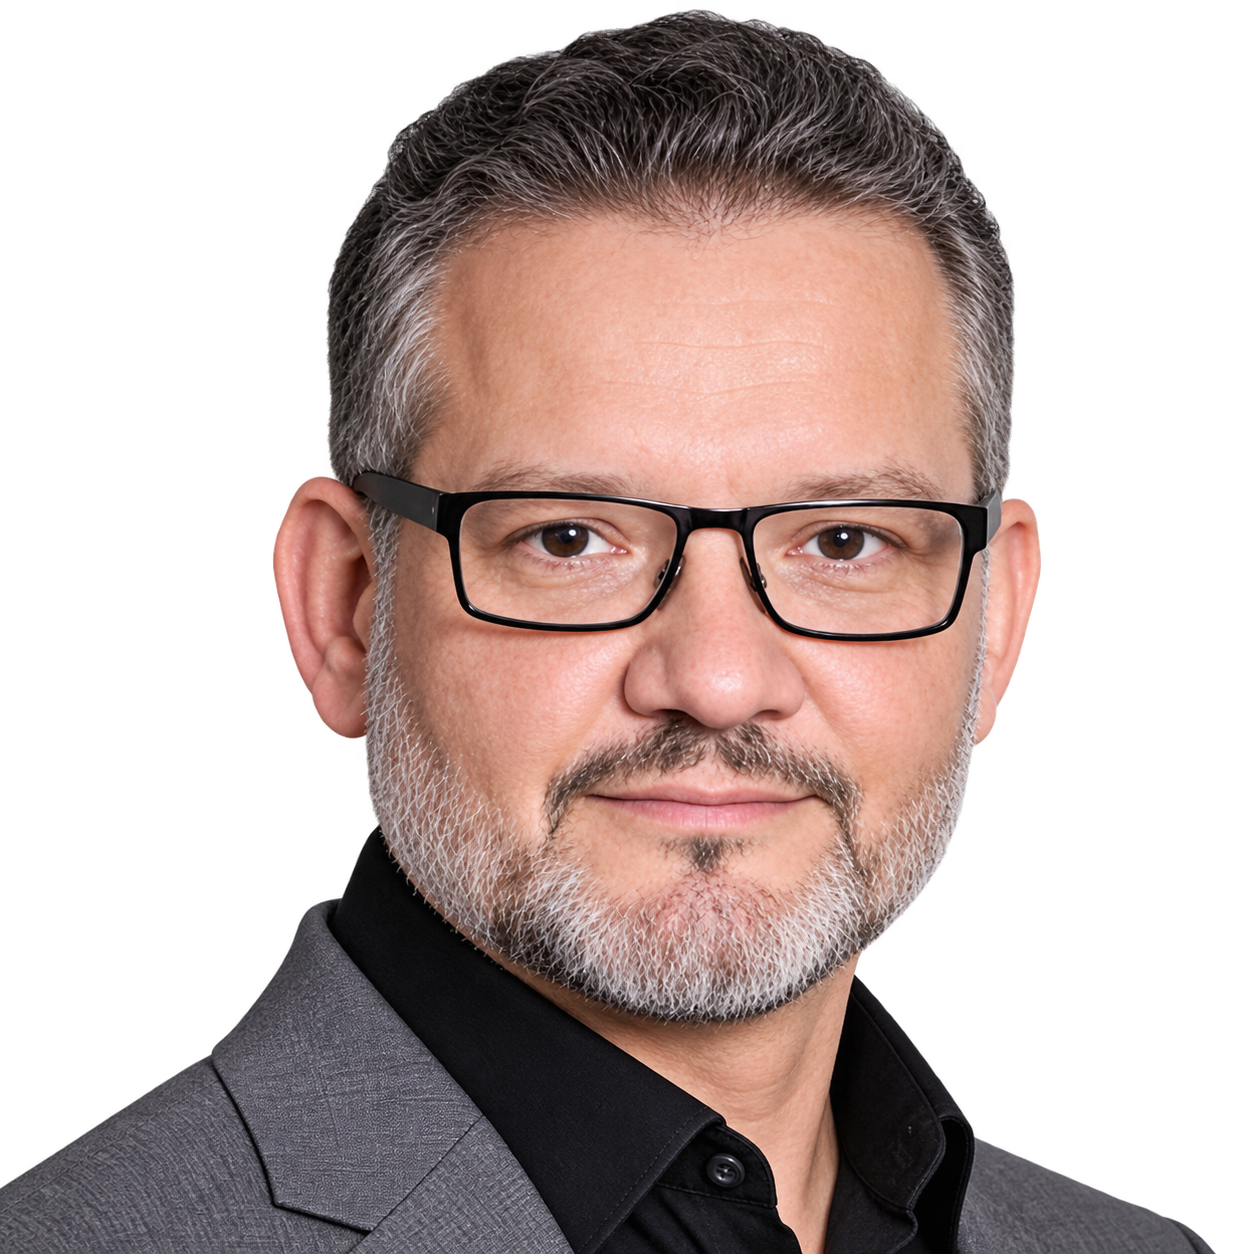
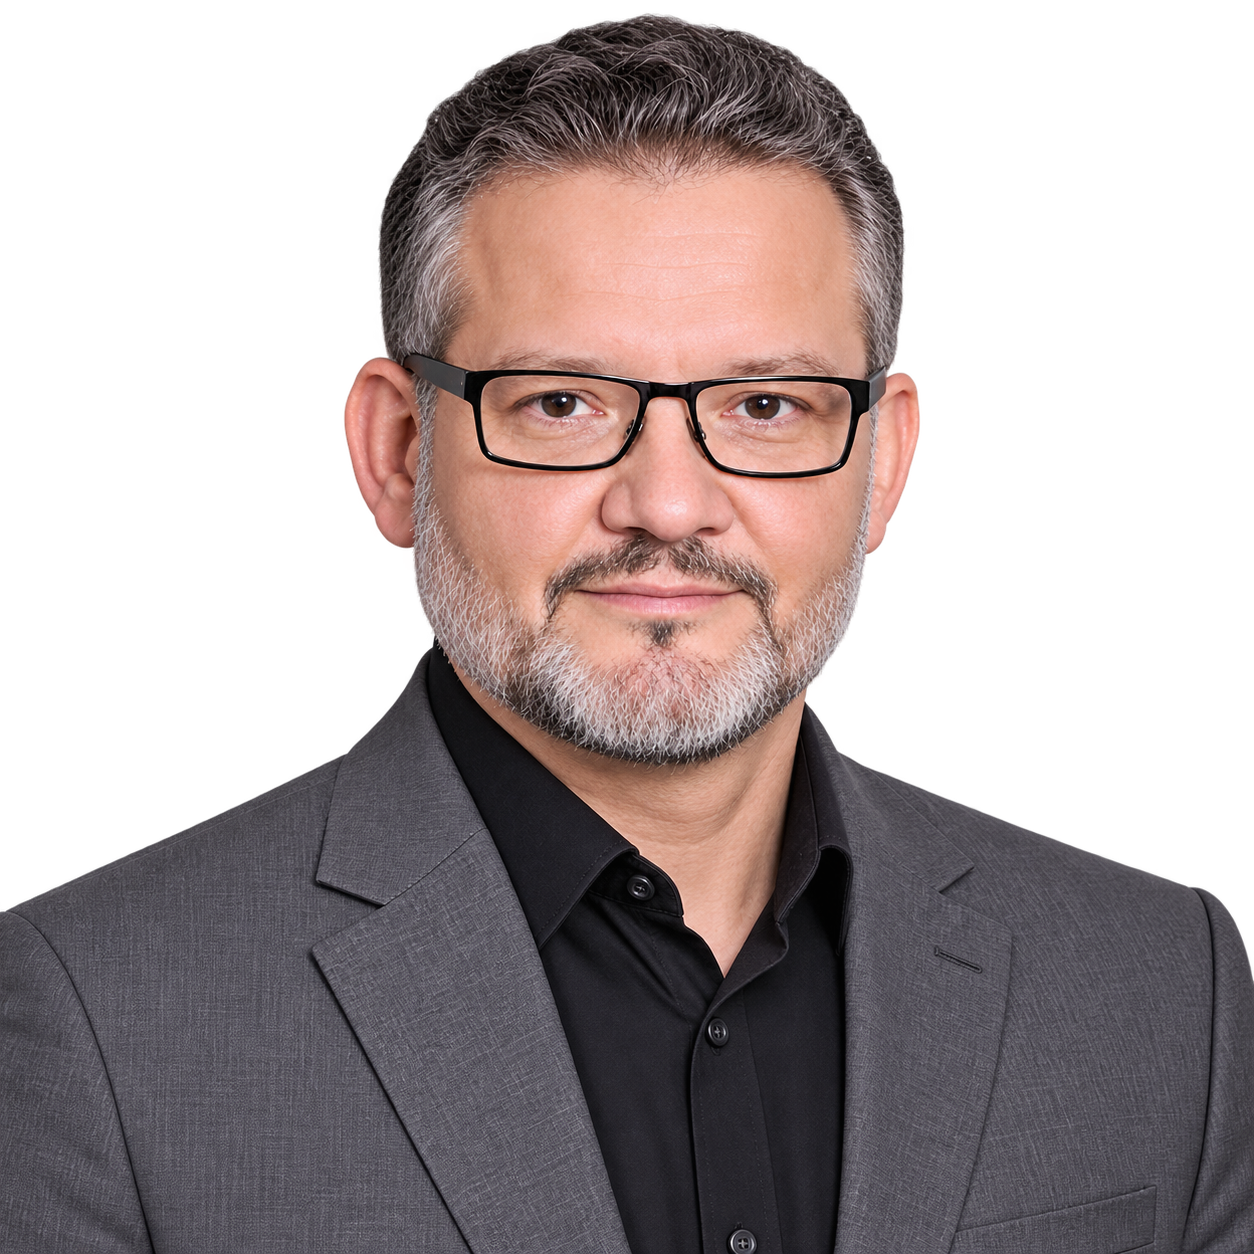
Fix mobile responsiveness issues and update team photos

diff --git a/src/refinements.css b/src/refinements.css
@@ -1581,3 +1581,130 @@ span.brand__name--technologies,
 }
 
 
+
+/* =========================================================
+   COMPREHENSIVE MOBILE RESPONSIVE FIXES FOR ALL HEROES
+   ========================================================= */
+@media (max-width: 1024px) {
+  /* Make all hero containers stack vertically */
+  .picture-hero__container,
+  .impl-hero__container,
+  .managed-hero__container,
+  .about-hero__container {
+    flex-direction: column !important;
+    padding: 0 5% !important;
+  }
+  
+  /* Reset widths for left and right columns to take full width */
+  .picture-hero__left,
+  .picture-hero__right,
+  .impl-hero__left,
+  .impl-hero__right,
+  .impl-hero__spacer,
+  .managed-hero__left,
+  .managed-hero__right,
+  .about-hero__left,
+  .about-hero__spacer {
+    flex: 0 0 100% !important;
+    max-width: 100% !important;
+    width: 100% !important;
+    padding-left: 0 !important;
+    padding-right: 0 !important;
+    margin-left: 0 !important;
+    margin-right: 0 !important;
+  }
+  
+  /* Reset backgrounds and overlaps for mobile layout */
+  .about-hero__left {
+    background: rgba(13, 30, 61, 0.85) !important;
+    padding: 30px 6% !important;
+    margin-top: 40px !important;
+  }
+  
+  .impl-hero__left {
+    padding: 30px 6% !important;
+    margin-top: 40px !important;
+    background: rgba(13, 30, 61, 0.85) !important;
+    border-radius: 16px !important;
+  }
+
+  /* Fix specific heights for images so they aren't cut off */
+  .picture-hero__right,
+  .managed-hero__right {
+    height: auto !important;
+    min-height: 250px !important;
+    margin-top: 40px !important;
+    padding: 0 !important;
+  }
+  
+  .picture-hero__img-mask,
+  .managed-hero__img-container {
+    height: auto !important;
+    width: 100% !important;
+    clip-path: none !important;
+  }
+  
+  .picture-hero__img,
+  .managed-hero__img {
+    height: auto !important;
+    width: 100% !important;
+    object-fit: cover !important;
+    border-radius: 16px !important;
+  }
+
+  .managed-hero__img-overlay {
+    border-radius: 16px !important;
+  }
+  
+  /* Managed Services Specific Overlays */
+  .managed-hero__overlay-list {
+    position: relative !important;
+    top: 0 !important;
+    left: 0 !important;
+    right: 0 !important;
+    bottom: 0 !important;
+    max-width: 100% !important;
+    width: 100% !important;
+    background: rgba(13, 30, 61, 0.95) !important;
+    border-radius: 16px !important;
+    padding: 24px !important;
+    margin-top: 16px !important;
+    box-sizing: border-box !important;
+  }
+}
+
+/* =========================================================
+   MOBILE FIXES FOR IMPLEMENTATION APPROACH CARD
+   ========================================================= */
+@media (max-width: 768px) {
+  .impl-card__header {
+    font-size: 0.85rem !important;
+    padding: 16px 12px !important;
+    letter-spacing: 0.05em !important;
+  }
+  
+  .impl-card__body {
+    padding: 24px 16px !important;
+  }
+  
+  .impl-flow__step {
+    gap: 16px !important;
+    align-items: flex-start !important;
+  }
+  
+  .impl-flow__icon-wrap {
+    width: 40px !important;
+    height: 40px !important;
+    margin-top: 4px !important;
+  }
+  
+  .impl-flow__details {
+    flex: 1 !important;
+    min-width: 0 !important;
+  }
+  
+  .impl-flow__desc {
+    max-width: 100% !important;
+    font-size: 0.82rem !important;
+  }
+}

diff --git a/src/components/Footer.jsx b/src/components/Footer.jsx
@@ -1,11 +1,14 @@
 import { useState } from 'react';
-import { Link } from 'react-router-dom';
+import { Link, useNavigate, useLocation } from 'react-router-dom';
 import goonerLogo from '../assets/logo.png';
 
 export default function Footer() {
   const [newsEmail, setNewsEmail] = useState('');
   const [subscribed, setSubscribed] = useState(false);
   const [isSubscribing, setIsSubscribing] = useState(false);
+  
+  const navigate = useNavigate();
+  const location = useLocation();
 
   const handleSubscribe = (e) => {
     e.preventDefault();
@@ -20,12 +23,30 @@ export default function Footer() {
   };
 
   const handleScrollTo = (e, href) => {
-    if (href.startsWith('#')) {
-      const target = document.querySelector(href);
-      if (target) {
-        e.preventDefault();
-        target.scrollIntoView({ behavior: 'smooth', block: 'start' });
+    e.preventDefault();
+    if (href.includes('#')) {
+      const [path, hash] = href.split('#');
+      const targetId = `#${hash}`;
+
+      const scrollToTarget = () => {
+        const target = document.querySelector(targetId);
+        if (target) {
+          target.scrollIntoView({ behavior: 'smooth', block: 'start' });
+        }
+      };
+
+      const resolvedPath = path || '/';
+      const isSamePath = location.pathname === resolvedPath || 
+        (resolvedPath === '/' && location.pathname === '');
+
+      if (!isSamePath) {
+        navigate(resolvedPath);
+        setTimeout(scrollToTarget, 150);
+      } else {
+        scrollToTarget();
       }
+    } else {
+      window.scrollTo({ top: 0, behavior: 'smooth' });
     }
   };
 
@@ -37,7 +58,7 @@ export default function Footer() {
         <div className="footer__main-grid">
           {/* Col 1: Brand */}
           <div className="footer__brand-col">
-            <a href="#" className="brand footer-brand" onClick={(e) => handleScrollTo(e, '#hero')}>
+            <a href="/#hero" className="brand footer-brand" onClick={(e) => handleScrollTo(e, '/#hero')}>
               <img src={goonerLogo} alt="Gooner Technologies" className="brand__logo-img" />
               <span className="brand__divider" aria-hidden="true" />
               <span className="brand__name">
@@ -54,9 +75,9 @@ export default function Footer() {
           <div className="footer__nav-col">
             <h4 className="footer__nav-title">Quick Links</h4>
             <ul className="footer__nav-list">
-              <li><a href="#why-us" onClick={(e) => handleScrollTo(e, '#why-us')}>Why Choose Us</a></li>
-              <li><a href="#proven-impact" onClick={(e) => handleScrollTo(e, '#proven-impact')}>Business Impact</a></li>
-              <li><a href="#case-studies" onClick={(e) => handleScrollTo(e, '#case-studies')}>Client Case Studies</a></li>
+              <li><a href="/#why-us" onClick={(e) => handleScrollTo(e, '/#why-us')}>Why Choose Us</a></li>
+              <li><a href="/#proven-impact" onClick={(e) => handleScrollTo(e, '/#proven-impact')}>Business Impact</a></li>
+              <li><a href="/#case-studies" onClick={(e) => handleScrollTo(e, '/#case-studies')}>Client Case Studies</a></li>
               <li><Link to="/about-us">About Us</Link></li>
               <li><Link to="/faqs">FAQs</Link></li>
             </ul>

diff --git a/src/data/aboutData.js b/src/data/aboutData.js
@@ -14,8 +14,7 @@ export const TEAM_MEMBERS = [
   {
     name: 'Andy Pieroux',
     role: 'Mentor',
-    image: '/assets/Our%20people/Andy_Pieroux.png',
-    imageStyle: { padding: '20px 20px 0 20px' }
+    image: '/assets/Our%20people/Andy_Pieroux.png'
   },
   {
     name: 'Vinay Parekh',
@@ -39,8 +38,7 @@ export const TEAM_MEMBERS = [
     name: 'Harshit Singh',
     role: 'Consultant',
     image: '/assets/Our%20people/Harshit_Singh.png',
-    linkedin: 'https://www.linkedin.com/in/hrshit1309/',
-    imageStyle: { padding: '20px 20px 0 20px', top: '25px' }
+    linkedin: 'https://www.linkedin.com/in/hrshit1309/'
   }
 ];
 

diff --git a/dist/index.html b/dist/index.html
@@ -12,8 +12,8 @@
       href="https://fonts.googleapis.com/css2?family=Plus+Jakarta+Sans:wght@400;500;600;700;800&family=Syne:wght@600;700;800&display=swap"
       rel="stylesheet"
     />
-    <script type="module" crossorigin src="/assets/index-CSSw-Qk4.js"></script>
-    <link rel="stylesheet" crossorigin href="/assets/index-D1zCulz1.css">
+    <script type="module" crossorigin src="/assets/index-CZgeolwj.js"></script>
+    <link rel="stylesheet" crossorigin href="/assets/index-lthFA0mN.css">
   </head>
   <body>
     <div id="root"></div>

diff --git a/src/pages/ContactUs.css b/src/pages/ContactUs.css
@@ -227,6 +227,7 @@
 
 .form-group input,
 .form-group textarea {
+  width: 100%;
   background: #ffffff;
   border: 1px solid #bae6fd;
   border-radius: 12px;
